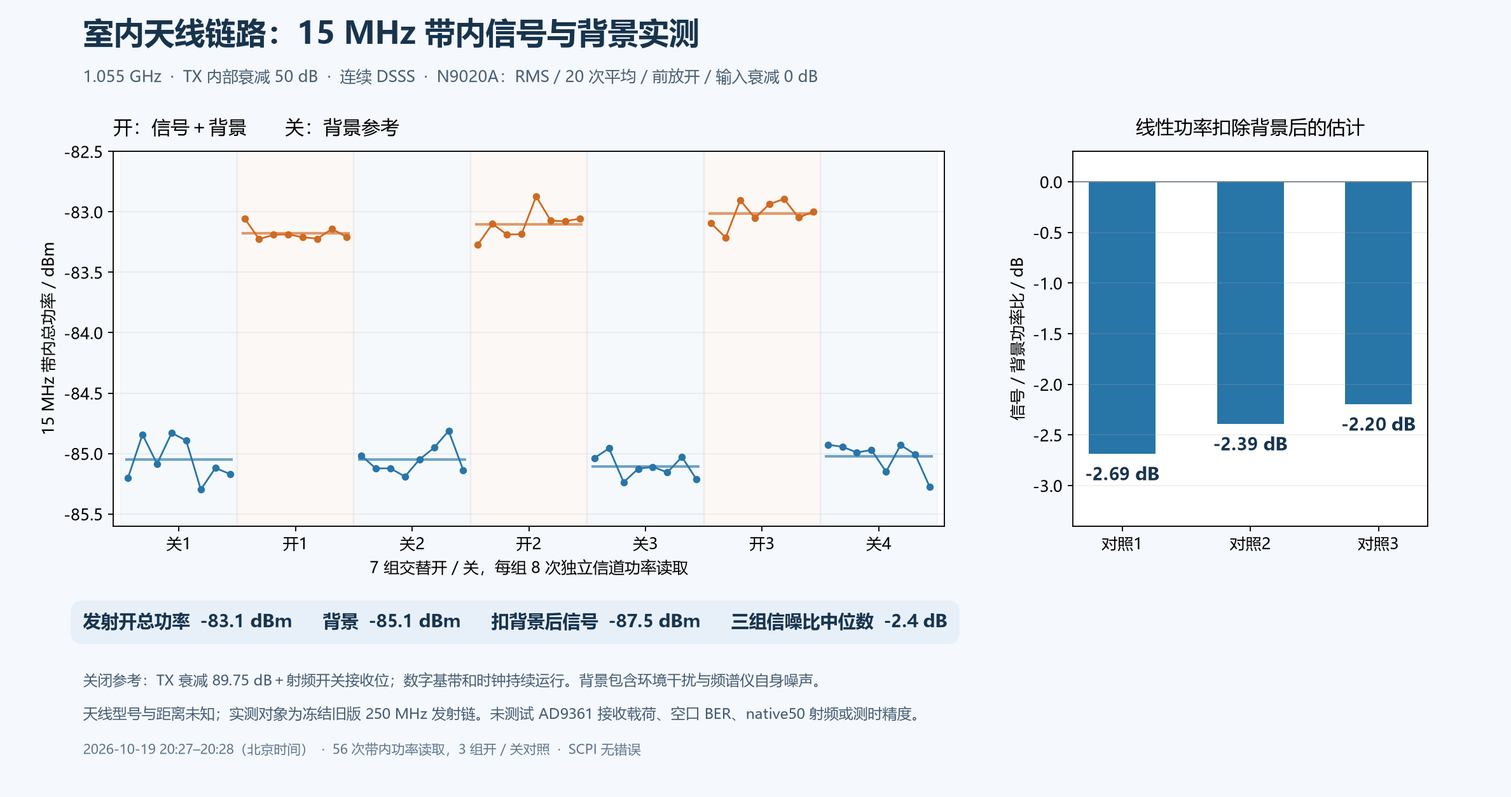
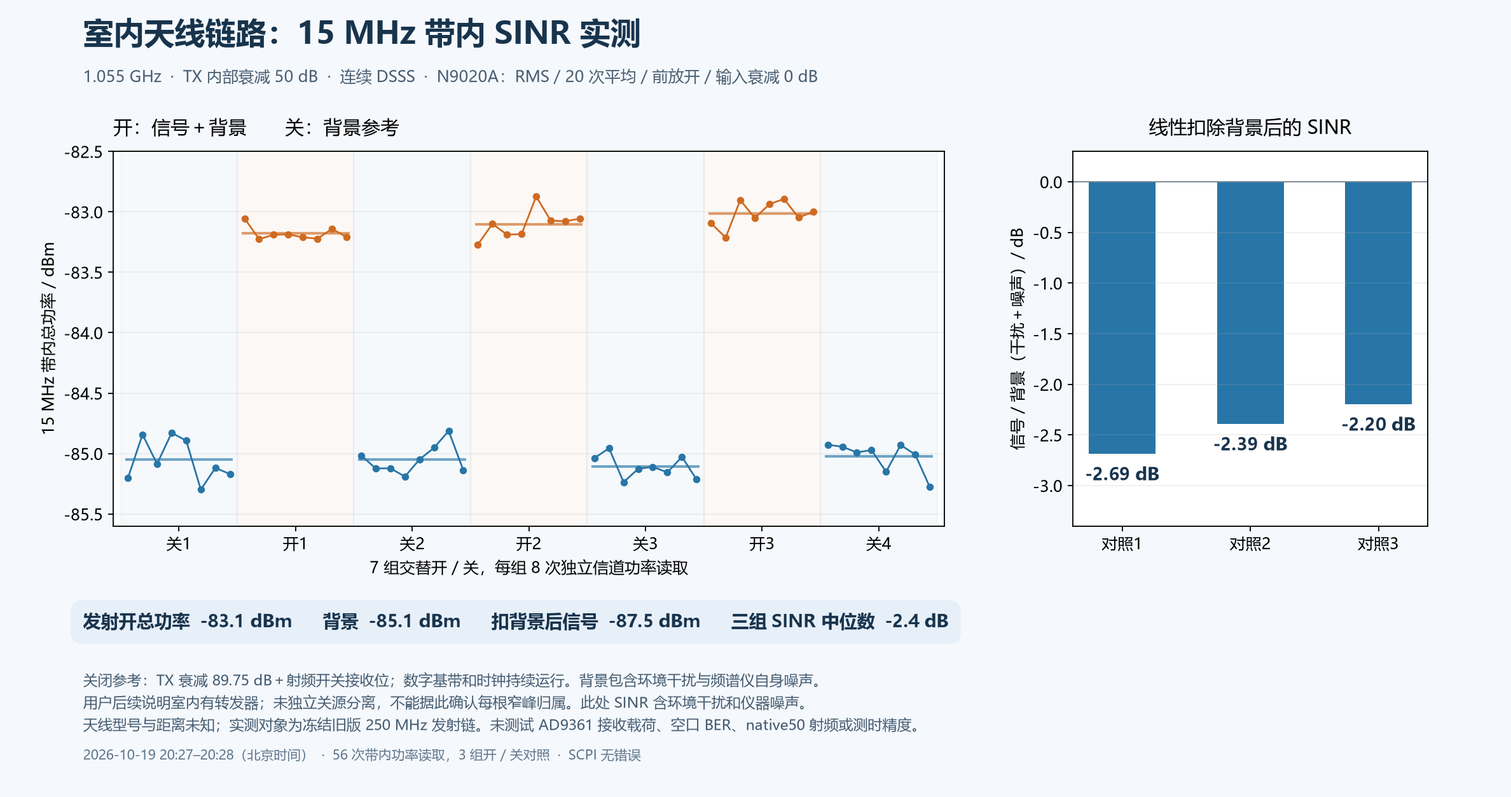
Update DSSS simulation gallery 2026-10-19

diff --git a/catalog.html b/catalog.html
@@ -861,13 +861,17 @@ img{width:100%;height:240px;object-fit:contain;background:#f8fafc}h3{font-size:1
 <li><a href="modules.html#script_native50_selftest">原生50 MHz：双板内部模块自检</a>：登记的新图对应模块；场景及信号说明见图注</li>
 </ul><details class="panel-note"><summary>这张图从哪里取数 / 如何阅读</summary><p>已按登记信息关联模块；具体场景及信号说明：2026-10-19实际JTAG读回，A/B两块FMQL45T900各10次逻辑启动，共20轮；不是10次断电重启。Ru_10MHz经MMCM生成50MHz，AD9361保持复位、射频关闭。实际位流568a3b721786af57开头，两板各次记录与本次nonce、原始日志SHA256绑定；完整原始日志留本地。每轮100B递增载荷经过真实phy_tx_top，组148B帧、同一PN1000扩频、12.5Mcps、4倍41tap RRC，输出4736040个有效I16样点（含40个尾样点），Q恒零，I16小端全帧CRC32均F5EECF75；独立整数卷积生成参考，不用DUT自身输出作为golden。RX以800个已解调测试bit驱动rx_phy_par到phy_adc_bridge，检查132B包；OBS检查256B固定地址模式的32拍AXIS记录，两条通路均加入背压并检查保持。板上TX/RX/OBS错误计数均0；DONE/INIT/CRC状态为1/1/0。OBS固定模式仅验证控制/握手，不是RAM全位覆盖或外部DDR测试。首轮50MHz建立时序-3.232ns，真实tx_intp4改为7级流水后建立+7.305ns、保持+0.046ns；相对旧实现增加6拍120ns固定计算延迟，系数、样点和CRC不变，不能当成传播延迟或同步精度。附属RTL仿真另外验证三帧逐点golden、故意破坏TX样点后拒绝、恢复启动、正负饱和和半LSB舍入。未验证DATA_CLK源同步/LVDS、ADC/DAC和RF、完整FFT/DLL/Costas接收、PS/DMA/物理DDR、空口TDD、PPS或1ns/ps精度。此为脚本生成的实测结果图，无新增Simulink块；源代码、私有IP、位流和用户载荷不公开。旧S2双向和连续收发记录为历史基线，不能与当前native50台架混用。</p>
 </details></article>
-<article data-era="current" data-modules="script_continuous_tx"><span class="badge">E3天线实测：分析仪端信号/背景约−2.4dB；未验收接收载荷</span><h3>69_室内无源天线_15MHz带内信噪比实测.png</h3><a href="08_MATLAB_Simulink_RTL%E5%AF%B9%E7%85%A7/69_%E5%AE%A4%E5%86%85%E6%97%A0%E6%BA%90%E5%A4%A9%E7%BA%BF_15MHz%E5%B8%A6%E5%86%85%E4%BF%A1%E5%99%AA%E6%AF%94%E5%AE%9E%E6%B5%8B.png" target="_blank"><img loading="lazy" src="08_MATLAB_Simulink_RTL%E5%AF%B9%E7%85%A7/69_%E5%AE%A4%E5%86%85%E6%97%A0%E6%BA%90%E5%A4%A9%E7%BA%BF_15MHz%E5%B8%A6%E5%86%85%E4%BF%A1%E5%99%AA%E6%AF%94%E5%AE%9E%E6%B5%8B.png" alt="69_室内无源天线_15MHz带内信噪比实测.png"></a><p>2026-10-19约20:28实测，A板此前是native50射频关闭的内部自检；本次仅A恢复冻结20261016旧连续DSSS发送镜像并重新初始化与校准，B保持native50内部自检。1.055GHz、50MSPS、12.5Mcps、12.5kbps、PN1000、TX内部衰减50dB，无源天线室内连接N9020A，天线型号/频段/增益与距离未知。仪器15MHz积分、RMS检波/20次平均、输入衰减0dB、前放开启。保持数字基带和时钟连续，关参考采用TX89.75dB与射频开关接收位，开时恢复50dB和发射位；七组交替开关，每组八次，共56次真实CHPower读取，SCPI错误均0。三个开组总功率−83.179/−83.101/−83.016dBm，邻近关组线性平均背景约−85.050/−85.078/−85.065dBm；先在线性功率扣背景，再算信号/背景−2.688/−2.393/−2.197dB，中位−2.393dB。汇总开总功率约−83.1dBm、背景−85.1dBm、扣背景后信号约−87.5dBm。背景含环境干扰和分析仪自身噪声，不能等同AD9361接收端SNR；这是15MHz解扩前比值，不是单个RBW谱峰或解扩后判决信噪比。保持关闭数字源会改变FPGA辐射，因此没有用停时钟作为关参考。CHP模式下额外SAN TRAC1读数均为−1000无效哨兵，原样保留但完全排除，图中只有有效CHPower数值。仅证明本次低功率天线RF信号可由开关区分，不证明接收载荷、BER、无线距离、native50完整RF链、PPS或ps精度。位流、RTL/IP和原始日志仅本地。</p><p><strong>对应模块 / 图源：</strong></p><ul class="module-links">
+<article data-era="current" data-modules="script_continuous_tx"><span class="badge">E3天线实测：分析仪端SINR约−2.4dB（信号/干扰与噪声）；未验收接收载荷</span><h3>69_室内无源天线_15MHz带内信噪比实测.png</h3><a href="08_MATLAB_Simulink_RTL%E5%AF%B9%E7%85%A7/69_%E5%AE%A4%E5%86%85%E6%97%A0%E6%BA%90%E5%A4%A9%E7%BA%BF_15MHz%E5%B8%A6%E5%86%85%E4%BF%A1%E5%99%AA%E6%AF%94%E5%AE%9E%E6%B5%8B.png" target="_blank"><img loading="lazy" src="08_MATLAB_Simulink_RTL%E5%AF%B9%E7%85%A7/69_%E5%AE%A4%E5%86%85%E6%97%A0%E6%BA%90%E5%A4%A9%E7%BA%BF_15MHz%E5%B8%A6%E5%86%85%E4%BF%A1%E5%99%AA%E6%AF%94%E5%AE%9E%E6%B5%8B.png" alt="69_室内无源天线_15MHz带内信噪比实测.png"></a><p>2026-10-19约20:28实测，A板此前是native50射频关闭的内部自检；本次仅A恢复冻结20261016旧连续DSSS发送镜像并重新初始化与校准，B保持native50内部自检。1.055GHz、50MSPS、12.5Mcps、12.5kbps、PN1000、TX内部衰减50dB，无源天线室内连接N9020A，天线型号/频段/增益与距离未知。仪器15MHz积分、RMS检波/20次平均、输入衰减0dB、前放开启。保持数字基带和时钟连续，关参考采用TX89.75dB与射频开关接收位，开时恢复50dB和发射位；七组交替开关，每组八次，共56次真实CHPower读取，SCPI错误均0。三个开组总功率−83.179/−83.101/−83.016dBm，邻近关组线性平均背景约−85.050/−85.078/−85.065dBm；先在线性功率扣背景，再算信号/背景−2.688/−2.393/−2.197dB，中位−2.393dB。汇总开总功率约−83.1dBm、背景−85.1dBm、扣背景后信号约−87.5dBm。背景含环境干扰和分析仪自身噪声，不能等同AD9361接收端SNR；这是15MHz解扩前比值，不是单个RBW谱峰或解扩后判决信噪比。保持关闭数字源会改变FPGA辐射，因此没有用停时钟作为关参考。CHP模式下额外SAN TRAC1读数均为−1000无效哨兵，原样保留但完全排除，图中只有有效CHPower数值。仅证明本次低功率天线RF信号可由开关区分，不证明接收载荷、BER、无线距离、native50完整RF链、PPS或ps精度。位流、RTL/IP和原始日志仅本地。 用户后续现场说明室内存在转发器，因此本图文字口径修正为SINR或信号/背景（干扰加噪声）；原始56次读取、三个比值、公开文件名和URL均保持不变。未关闭转发器独立分离，没有证实每根窄峰均由转发器产生。</p><p><strong>对应模块 / 图源：</strong></p><ul class="module-links">
 <li><a href="modules.html#script_continuous_tx">实板连续发射机：FPGA帧源到AD9361射频</a>：登记的新图对应模块；场景及信号说明见图注</li>
-</ul><details class="panel-note"><summary>这张图从哪里取数 / 如何阅读</summary><p>已按登记信息关联模块；具体场景及信号说明：2026-10-19约20:28实测，A板此前是native50射频关闭的内部自检；本次仅A恢复冻结20261016旧连续DSSS发送镜像并重新初始化与校准，B保持native50内部自检。1.055GHz、50MSPS、12.5Mcps、12.5kbps、PN1000、TX内部衰减50dB，无源天线室内连接N9020A，天线型号/频段/增益与距离未知。仪器15MHz积分、RMS检波/20次平均、输入衰减0dB、前放开启。保持数字基带和时钟连续，关参考采用TX89.75dB与射频开关接收位，开时恢复50dB和发射位；七组交替开关，每组八次，共56次真实CHPower读取，SCPI错误均0。三个开组总功率−83.179/−83.101/−83.016dBm，邻近关组线性平均背景约−85.050/−85.078/−85.065dBm；先在线性功率扣背景，再算信号/背景−2.688/−2.393/−2.197dB，中位−2.393dB。汇总开总功率约−83.1dBm、背景−85.1dBm、扣背景后信号约−87.5dBm。背景含环境干扰和分析仪自身噪声，不能等同AD9361接收端SNR；这是15MHz解扩前比值，不是单个RBW谱峰或解扩后判决信噪比。保持关闭数字源会改变FPGA辐射，因此没有用停时钟作为关参考。CHP模式下额外SAN TRAC1读数均为−1000无效哨兵，原样保留但完全排除，图中只有有效CHPower数值。仅证明本次低功率天线RF信号可由开关区分，不证明接收载荷、BER、无线距离、native50完整RF链、PPS或ps精度。位流、RTL/IP和原始日志仅本地。</p>
+</ul><details class="panel-note"><summary>这张图从哪里取数 / 如何阅读</summary><p>已按登记信息关联模块；具体场景及信号说明：2026-10-19约20:28实测，A板此前是native50射频关闭的内部自检；本次仅A恢复冻结20261016旧连续DSSS发送镜像并重新初始化与校准，B保持native50内部自检。1.055GHz、50MSPS、12.5Mcps、12.5kbps、PN1000、TX内部衰减50dB，无源天线室内连接N9020A，天线型号/频段/增益与距离未知。仪器15MHz积分、RMS检波/20次平均、输入衰减0dB、前放开启。保持数字基带和时钟连续，关参考采用TX89.75dB与射频开关接收位，开时恢复50dB和发射位；七组交替开关，每组八次，共56次真实CHPower读取，SCPI错误均0。三个开组总功率−83.179/−83.101/−83.016dBm，邻近关组线性平均背景约−85.050/−85.078/−85.065dBm；先在线性功率扣背景，再算信号/背景−2.688/−2.393/−2.197dB，中位−2.393dB。汇总开总功率约−83.1dBm、背景−85.1dBm、扣背景后信号约−87.5dBm。背景含环境干扰和分析仪自身噪声，不能等同AD9361接收端SNR；这是15MHz解扩前比值，不是单个RBW谱峰或解扩后判决信噪比。保持关闭数字源会改变FPGA辐射，因此没有用停时钟作为关参考。CHP模式下额外SAN TRAC1读数均为−1000无效哨兵，原样保留但完全排除，图中只有有效CHPower数值。仅证明本次低功率天线RF信号可由开关区分，不证明接收载荷、BER、无线距离、native50完整RF链、PPS或ps精度。位流、RTL/IP和原始日志仅本地。 用户后续现场说明室内存在转发器，因此本图文字口径修正为SINR或信号/背景（干扰加噪声）；原始56次读取、三个比值、公开文件名和URL均保持不变。未关闭转发器独立分离，没有证实每根窄峰均由转发器产生。</p>
 </details></article>
 <article data-era="current" data-modules="script_continuous_tx"><span class="badge">E3频谱实测：1042.28MHz强峰不随RF控制变化；具体来源未确定</span><h3>70_室内天线频谱_尖峰来源与射频开关衰减对照.png</h3><a href="08_MATLAB_Simulink_RTL%E5%AF%B9%E7%85%A7/70_%E5%AE%A4%E5%86%85%E5%A4%A9%E7%BA%BF%E9%A2%91%E8%B0%B1_%E5%B0%96%E5%B3%B0%E6%9D%A5%E6%BA%90%E4%B8%8E%E5%B0%84%E9%A2%91%E5%BC%80%E5%85%B3%E8%A1%B0%E5%87%8F%E5%AF%B9%E7%85%A7.png" target="_blank"><img loading="lazy" src="08_MATLAB_Simulink_RTL%E5%AF%B9%E7%85%A7/70_%E5%AE%A4%E5%86%85%E5%A4%A9%E7%BA%BF%E9%A2%91%E8%B0%B1_%E5%B0%96%E5%B3%B0%E6%9D%A5%E6%BA%90%E4%B8%8E%E5%B0%84%E9%A2%91%E5%BC%80%E5%85%B3%E8%A1%B0%E5%87%8F%E5%AF%B9%E7%85%A7.png" alt="70_室内天线频谱_尖峰来源与射频开关衰减对照.png"></a><p>2026-10-19约21:01–21:02，延续图69同一旧连续发送镜像，A为1.055GHz/50MSPS/12.5Mcps/PN1000，B仍为native50射频关闭的内部自检。室内无源天线，型号/频段/增益/距离未知。N9020A中心1055MHz、跨度40MHz、RBW/VBW100kHz、RMS检波、前放开、输入衰减0dB。依次TX50dB、TX60dB、TX89.75dB加射频开关接收位、再TX50dB；保持同一数字波形、时钟和PLL运行，不重新下载/复位/改LO。每状态20次独立扫描共80次，在每个频点线性功率平均，两个50dB状态再线性平均作为正常曲线。表格取峰附近正负2个40kHz频点最大值，非精密频率计测量。1042.28MHz正常约-72.36dBm，静音-72.22dBm，增衰减10dB后-71.96dBm，未见随TX输出下降；不能称为期望DSSS信号，也不能仅凭静音仍在断言外部台。1039.48MHz变化非单调；1050MHz基本不变；1060MHz正常与静音差约1.9dB而增衰减10dB只变化约1.1dB，混合背景未分离；1070MHz前后波动约1.2dB。1050/1060/1070的10MHz等间隔仅提示时钟或杂散嫌疑，不证明10MHz参考泄漏或AD9361 PLL根因；相对载频偏移为-5/+5/+15MHz。静音保留数字时钟，环境干扰、板级直接耦合、仪器自杂散均尚未区分。横轴为射频频率，不是PN码相位相关峰，不支持历史80ns归因；峰值为每RBW功率，不替代图69的15MHz积分信噪比。仪器与SPI无错误，发送帧持续且削顶/故障0；结束恢复50dB连续发送并设置M1–M5标记。没有接收载荷/BER/距离/PPS/ps精度验收。本图为脚本实测输出，无新增Simulink块；源码/IP/位流与原始曲线本地留存。</p><p><strong>对应模块 / 图源：</strong></p><ul class="module-links">
 <li><a href="modules.html#script_continuous_tx">实板连续发射机：FPGA帧源到AD9361射频</a>：登记的新图对应模块；场景及信号说明见图注</li>
 </ul><details class="panel-note"><summary>这张图从哪里取数 / 如何阅读</summary><p>已按登记信息关联模块；具体场景及信号说明：2026-10-19约21:01–21:02，延续图69同一旧连续发送镜像，A为1.055GHz/50MSPS/12.5Mcps/PN1000，B仍为native50射频关闭的内部自检。室内无源天线，型号/频段/增益/距离未知。N9020A中心1055MHz、跨度40MHz、RBW/VBW100kHz、RMS检波、前放开、输入衰减0dB。依次TX50dB、TX60dB、TX89.75dB加射频开关接收位、再TX50dB；保持同一数字波形、时钟和PLL运行，不重新下载/复位/改LO。每状态20次独立扫描共80次，在每个频点线性功率平均，两个50dB状态再线性平均作为正常曲线。表格取峰附近正负2个40kHz频点最大值，非精密频率计测量。1042.28MHz正常约-72.36dBm，静音-72.22dBm，增衰减10dB后-71.96dBm，未见随TX输出下降；不能称为期望DSSS信号，也不能仅凭静音仍在断言外部台。1039.48MHz变化非单调；1050MHz基本不变；1060MHz正常与静音差约1.9dB而增衰减10dB只变化约1.1dB，混合背景未分离；1070MHz前后波动约1.2dB。1050/1060/1070的10MHz等间隔仅提示时钟或杂散嫌疑，不证明10MHz参考泄漏或AD9361 PLL根因；相对载频偏移为-5/+5/+15MHz。静音保留数字时钟，环境干扰、板级直接耦合、仪器自杂散均尚未区分。横轴为射频频率，不是PN码相位相关峰，不支持历史80ns归因；峰值为每RBW功率，不替代图69的15MHz积分信噪比。仪器与SPI无错误，发送帧持续且削顶/故障0；结束恢复50dB连续发送并设置M1–M5标记。没有接收载荷/BER/距离/PPS/ps精度验收。本图为脚本实测输出，无新增Simulink块；源码/IP/位流与原始曲线本地留存。</p>
+</details></article>
+<article data-era="current" data-modules="script_continuous_tx"><span class="badge">E3天线实测：50/45/40dB片内衰减对照；3/3组可靠检出；无载荷验收</span><h3>71_室内天线发射功率提高_50至40dB衰减对照.png</h3><a href="08_MATLAB_Simulink_RTL%E5%AF%B9%E7%85%A7/71_%E5%AE%A4%E5%86%85%E5%A4%A9%E7%BA%BF%E5%8F%91%E5%B0%84%E5%8A%9F%E7%8E%87%E6%8F%90%E9%AB%98_50%E8%87%B340dB%E8%A1%B0%E5%87%8F%E5%AF%B9%E7%85%A7.png" target="_blank"><img loading="lazy" src="08_MATLAB_Simulink_RTL%E5%AF%B9%E7%85%A7/71_%E5%AE%A4%E5%86%85%E5%A4%A9%E7%BA%BF%E5%8F%91%E5%B0%84%E5%8A%9F%E7%8E%87%E6%8F%90%E9%AB%98_50%E8%87%B340dB%E8%A1%B0%E5%87%8F%E5%AF%B9%E7%85%A7.png" alt="71_室内天线发射功率提高_50至40dB衰减对照.png"></a><p>2026-10-19室内无源天线接N9020A的真实RF测量。现场有转发器为用户说明，没有独立关源，故不按尖峰频率认定每个发射源。天线型号、频段、增益和距离未知。开始发现A板DONE=0，重新加载已验收冻结20261016旧连续TX镜像，重新初始化与LVDS校准后才测量；B本次未操作且当前状态未核查。A为1.055GHz、50MSPS、12.5Mchip/s、PN1000、连续DSSS；用户FIR旁路、模拟20MHz沿用旧配置。本次只把TX片内衰减50→45→40dB，设定相对提高0/5/10dB，衰减dB不是实际发射输出dBm。静音使用89.75dB衰减和RF开关接收位，保持数字波形与时钟运行。七组顺序为静音/50/静音/45/静音/40/静音，每组20次独立SAN扫描及8次15MHz CHPower读取，SAN为中心1055MHz/跨度40MHz/RBW100kHz/RMS检波，输入衰减0dB/前放开。左图每组频谱逐频点线性功率平均，静音曲线是四组静音线性平均，只作频谱展示；右图各开启组使用前后相邻两组静音线性平均独立扣背景，先S=Pon−Pbg，再SINR=10log10(S/Pbg)。背景包含环境干扰及分析仪噪声，不能等同AD9361接收端SNR。可靠门槛为开启相对背景上升&gt;max(0.7dB,3倍重复性标准误)，且前后背景变化绝对值&lt;1dB；未通过时保留总功率，不以0或理论值替代SINR；50dB基线未可靠检出时，相对实测提升不输出。TX片内衰减50dB：15MHz总功率-83.427dBm、相邻静音背景-85.105dBm、背景前后变化-0.132dB；线性扣背景信号-88.369dBm、SINR-3.263dB、相对TX50实测信号变化0.000dB；TX片内衰减45dB：15MHz总功率-81.636dBm、相邻静音背景-85.098dBm、背景前后变化0.147dB；线性扣背景信号-84.238dBm、SINR0.860dB、相对TX50实测信号变化4.131dB；TX片内衰减40dB：15MHz总功率-77.742dBm、相邻静音背景-84.967dBm、背景前后变化0.114dB；线性扣背景信号-78.654dBm、SINR6.314dB、相对TX50实测信号变化9.715dB。结束A保持40dB片内衰减连续发射，未改载频或停止基带。仅分析仪端频谱/功率控制与信号对背景比值，无接收载荷、BER、无线距离、TDD、PPS或ps精度验收。本图为脚本实测结果，无新增Simulink块；源码/IP、位流、原始记录与CSV仅留本地。</p><p><strong>对应模块 / 图源：</strong></p><ul class="module-links">
+<li><a href="modules.html#script_continuous_tx">实板连续发射机：FPGA帧源到AD9361射频</a>：登记的新图对应模块；场景及信号说明见图注</li>
+</ul><details class="panel-note"><summary>这张图从哪里取数 / 如何阅读</summary><p>已按登记信息关联模块；具体场景及信号说明：2026-10-19室内无源天线接N9020A的真实RF测量。现场有转发器为用户说明，没有独立关源，故不按尖峰频率认定每个发射源。天线型号、频段、增益和距离未知。开始发现A板DONE=0，重新加载已验收冻结20261016旧连续TX镜像，重新初始化与LVDS校准后才测量；B本次未操作且当前状态未核查。A为1.055GHz、50MSPS、12.5Mchip/s、PN1000、连续DSSS；用户FIR旁路、模拟20MHz沿用旧配置。本次只把TX片内衰减50→45→40dB，设定相对提高0/5/10dB，衰减dB不是实际发射输出dBm。静音使用89.75dB衰减和RF开关接收位，保持数字波形与时钟运行。七组顺序为静音/50/静音/45/静音/40/静音，每组20次独立SAN扫描及8次15MHz CHPower读取，SAN为中心1055MHz/跨度40MHz/RBW100kHz/RMS检波，输入衰减0dB/前放开。左图每组频谱逐频点线性功率平均，静音曲线是四组静音线性平均，只作频谱展示；右图各开启组使用前后相邻两组静音线性平均独立扣背景，先S=Pon−Pbg，再SINR=10log10(S/Pbg)。背景包含环境干扰及分析仪噪声，不能等同AD9361接收端SNR。可靠门槛为开启相对背景上升&gt;max(0.7dB,3倍重复性标准误)，且前后背景变化绝对值&lt;1dB；未通过时保留总功率，不以0或理论值替代SINR；50dB基线未可靠检出时，相对实测提升不输出。TX片内衰减50dB：15MHz总功率-83.427dBm、相邻静音背景-85.105dBm、背景前后变化-0.132dB；线性扣背景信号-88.369dBm、SINR-3.263dB、相对TX50实测信号变化0.000dB；TX片内衰减45dB：15MHz总功率-81.636dBm、相邻静音背景-85.098dBm、背景前后变化0.147dB；线性扣背景信号-84.238dBm、SINR0.860dB、相对TX50实测信号变化4.131dB；TX片内衰减40dB：15MHz总功率-77.742dBm、相邻静音背景-84.967dBm、背景前后变化0.114dB；线性扣背景信号-78.654dBm、SINR6.314dB、相对TX50实测信号变化9.715dB。结束A保持40dB片内衰减连续发射，未改载频或停止基带。仅分析仪端频谱/功率控制与信号对背景比值，无接收载荷、BER、无线距离、TDD、PPS或ps精度验收。本图为脚本实测结果，无新增Simulink块；源码/IP、位流、原始记录与CSV仅留本地。</p>
 </details></article>
 </div></section>
 <section data-category="9" id="c9"><h2>09_无线性能与鲁棒性</h2><p class="note">当前MATLAB可视化参数探索：自定义FIR、Costas、码率与信道；与历史旧方案场景分开。功能探索不等于真实RTL或70km无线性能验收。</p><div class="grid">

diff --git a/modules.html b/modules.html
@@ -550,6 +550,7 @@ hilite_system(&#x27;dsss_wireless_link/Costas_I_Q&#x27;,&#x27;find&#x27;);</pre>
 <li><a href="08_MATLAB_Simulink_RTL%E5%AF%B9%E7%85%A7/62_100ms%E5%88%86%E6%97%B6_%E6%8D%95%E8%8E%B7%E9%9B%B6%E4%BD%8D%E7%BD%AE%E5%AF%B9%E9%BD%90%E4%B8%8E%E9%9B%B6%E5%B3%B0%E5%88%A4%E5%86%B3.png">62_100ms分时_捕获零位置对齐与零峰判决.png</a> — 登记的新图对应模块；场景及信号说明见图注</li>
 <li><a href="08_MATLAB_Simulink_RTL%E5%AF%B9%E7%85%A7/69_%E5%AE%A4%E5%86%85%E6%97%A0%E6%BA%90%E5%A4%A9%E7%BA%BF_15MHz%E5%B8%A6%E5%86%85%E4%BF%A1%E5%99%AA%E6%AF%94%E5%AE%9E%E6%B5%8B.png">69_室内无源天线_15MHz带内信噪比实测.png</a> — 登记的新图对应模块；场景及信号说明见图注</li>
 <li><a href="08_MATLAB_Simulink_RTL%E5%AF%B9%E7%85%A7/70_%E5%AE%A4%E5%86%85%E5%A4%A9%E7%BA%BF%E9%A2%91%E8%B0%B1_%E5%B0%96%E5%B3%B0%E6%9D%A5%E6%BA%90%E4%B8%8E%E5%B0%84%E9%A2%91%E5%BC%80%E5%85%B3%E8%A1%B0%E5%87%8F%E5%AF%B9%E7%85%A7.png">70_室内天线频谱_尖峰来源与射频开关衰减对照.png</a> — 登记的新图对应模块；场景及信号说明见图注</li>
+<li><a href="08_MATLAB_Simulink_RTL%E5%AF%B9%E7%85%A7/71_%E5%AE%A4%E5%86%85%E5%A4%A9%E7%BA%BF%E5%8F%91%E5%B0%84%E5%8A%9F%E7%8E%87%E6%8F%90%E9%AB%98_50%E8%87%B340dB%E8%A1%B0%E5%87%8F%E5%AF%B9%E7%85%A7.png">71_室内天线发射功率提高_50至40dB衰减对照.png</a> — 登记的新图对应模块；场景及信号说明见图注</li>
 </ul><details><summary>实现位置与本地定位命令</summary><p class="note">fpga_ad9361/rtl/board/DSSS_BPSK_TXRX_continuous_tx_top.v；fpga_ad9361/rtl/dsss_continuous_tx.v；fpga_ad9361/rtl/dsss_tx_250.v；fpga_ad9361/rtl/iq_clock_bridge.v；fpga_ad9361/tools/instruments/continuous_tx_acceptance.py；fpga_ad9361/tools/instruments/control_continuous_tx.py；fpga_ad9361/sim/run_continuous_frame.py；fpga_ad9361/sim/run_continuous_tx.py；fpga_ad9361/tools/plot_continuous_tx.py</p>
 </details></article>
 <article id="script_continuous_rx"><h3>实板连续接收机：双板同轴载荷验证</h3>
@@ -1426,8 +1427,10 @@ hilite_system(&#x27;dsss_ad9361_official/Scope_TX_IQ&#x27;,&#x27;find&#x27;);</p
 </details>
 <details><summary>68_原生50MHz新PL模块_双板内部自检.png</summary><p>已按登记信息关联模块；具体场景及信号说明：2026-10-19实际JTAG读回，A/B两块FMQL45T900各10次逻辑启动，共20轮；不是10次断电重启。Ru_10MHz经MMCM生成50MHz，AD9361保持复位、射频关闭。实际位流568a3b721786af57开头，两板各次记录与本次nonce、原始日志SHA256绑定；完整原始日志留本地。每轮100B递增载荷经过真实phy_tx_top，组148B帧、同一PN1000扩频、12.5Mcps、4倍41tap RRC，输出4736040个有效I16样点（含40个尾样点），Q恒零，I16小端全帧CRC32均F5EECF75；独立整数卷积生成参考，不用DUT自身输出作为golden。RX以800个已解调测试bit驱动rx_phy_par到phy_adc_bridge，检查132B包；OBS检查256B固定地址模式的32拍AXIS记录，两条通路均加入背压并检查保持。板上TX/RX/OBS错误计数均0；DONE/INIT/CRC状态为1/1/0。OBS固定模式仅验证控制/握手，不是RAM全位覆盖或外部DDR测试。首轮50MHz建立时序-3.232ns，真实tx_intp4改为7级流水后建立+7.305ns、保持+0.046ns；相对旧实现增加6拍120ns固定计算延迟，系数、样点和CRC不变，不能当成传播延迟或同步精度。附属RTL仿真另外验证三帧逐点golden、故意破坏TX样点后拒绝、恢复启动、正负饱和和半LSB舍入。未验证DATA_CLK源同步/LVDS、ADC/DAC和RF、完整FFT/DLL/Costas接收、PS/DMA/物理DDR、空口TDD、PPS或1ns/ps精度。此为脚本生成的实测结果图，无新增Simulink块；源代码、私有IP、位流和用户载荷不公开。旧S2双向和连续收发记录为历史基线，不能与当前native50台架混用。</p>
 </details>
-<details><summary>69_室内无源天线_15MHz带内信噪比实测.png</summary><p>已按登记信息关联模块；具体场景及信号说明：2026-10-19约20:28实测，A板此前是native50射频关闭的内部自检；本次仅A恢复冻结20261016旧连续DSSS发送镜像并重新初始化与校准，B保持native50内部自检。1.055GHz、50MSPS、12.5Mcps、12.5kbps、PN1000、TX内部衰减50dB，无源天线室内连接N9020A，天线型号/频段/增益与距离未知。仪器15MHz积分、RMS检波/20次平均、输入衰减0dB、前放开启。保持数字基带和时钟连续，关参考采用TX89.75dB与射频开关接收位，开时恢复50dB和发射位；七组交替开关，每组八次，共56次真实CHPower读取，SCPI错误均0。三个开组总功率−83.179/−83.101/−83.016dBm，邻近关组线性平均背景约−85.050/−85.078/−85.065dBm；先在线性功率扣背景，再算信号/背景−2.688/−2.393/−2.197dB，中位−2.393dB。汇总开总功率约−83.1dBm、背景−85.1dBm、扣背景后信号约−87.5dBm。背景含环境干扰和分析仪自身噪声，不能等同AD9361接收端SNR；这是15MHz解扩前比值，不是单个RBW谱峰或解扩后判决信噪比。保持关闭数字源会改变FPGA辐射，因此没有用停时钟作为关参考。CHP模式下额外SAN TRAC1读数均为−1000无效哨兵，原样保留但完全排除，图中只有有效CHPower数值。仅证明本次低功率天线RF信号可由开关区分，不证明接收载荷、BER、无线距离、native50完整RF链、PPS或ps精度。位流、RTL/IP和原始日志仅本地。</p>
+<details><summary>69_室内无源天线_15MHz带内信噪比实测.png</summary><p>已按登记信息关联模块；具体场景及信号说明：2026-10-19约20:28实测，A板此前是native50射频关闭的内部自检；本次仅A恢复冻结20261016旧连续DSSS发送镜像并重新初始化与校准，B保持native50内部自检。1.055GHz、50MSPS、12.5Mcps、12.5kbps、PN1000、TX内部衰减50dB，无源天线室内连接N9020A，天线型号/频段/增益与距离未知。仪器15MHz积分、RMS检波/20次平均、输入衰减0dB、前放开启。保持数字基带和时钟连续，关参考采用TX89.75dB与射频开关接收位，开时恢复50dB和发射位；七组交替开关，每组八次，共56次真实CHPower读取，SCPI错误均0。三个开组总功率−83.179/−83.101/−83.016dBm，邻近关组线性平均背景约−85.050/−85.078/−85.065dBm；先在线性功率扣背景，再算信号/背景−2.688/−2.393/−2.197dB，中位−2.393dB。汇总开总功率约−83.1dBm、背景−85.1dBm、扣背景后信号约−87.5dBm。背景含环境干扰和分析仪自身噪声，不能等同AD9361接收端SNR；这是15MHz解扩前比值，不是单个RBW谱峰或解扩后判决信噪比。保持关闭数字源会改变FPGA辐射，因此没有用停时钟作为关参考。CHP模式下额外SAN TRAC1读数均为−1000无效哨兵，原样保留但完全排除，图中只有有效CHPower数值。仅证明本次低功率天线RF信号可由开关区分，不证明接收载荷、BER、无线距离、native50完整RF链、PPS或ps精度。位流、RTL/IP和原始日志仅本地。 用户后续现场说明室内存在转发器，因此本图文字口径修正为SINR或信号/背景（干扰加噪声）；原始56次读取、三个比值、公开文件名和URL均保持不变。未关闭转发器独立分离，没有证实每根窄峰均由转发器产生。</p>
 </details>
 <details><summary>70_室内天线频谱_尖峰来源与射频开关衰减对照.png</summary><p>已按登记信息关联模块；具体场景及信号说明：2026-10-19约21:01–21:02，延续图69同一旧连续发送镜像，A为1.055GHz/50MSPS/12.5Mcps/PN1000，B仍为native50射频关闭的内部自检。室内无源天线，型号/频段/增益/距离未知。N9020A中心1055MHz、跨度40MHz、RBW/VBW100kHz、RMS检波、前放开、输入衰减0dB。依次TX50dB、TX60dB、TX89.75dB加射频开关接收位、再TX50dB；保持同一数字波形、时钟和PLL运行，不重新下载/复位/改LO。每状态20次独立扫描共80次，在每个频点线性功率平均，两个50dB状态再线性平均作为正常曲线。表格取峰附近正负2个40kHz频点最大值，非精密频率计测量。1042.28MHz正常约-72.36dBm，静音-72.22dBm，增衰减10dB后-71.96dBm，未见随TX输出下降；不能称为期望DSSS信号，也不能仅凭静音仍在断言外部台。1039.48MHz变化非单调；1050MHz基本不变；1060MHz正常与静音差约1.9dB而增衰减10dB只变化约1.1dB，混合背景未分离；1070MHz前后波动约1.2dB。1050/1060/1070的10MHz等间隔仅提示时钟或杂散嫌疑，不证明10MHz参考泄漏或AD9361 PLL根因；相对载频偏移为-5/+5/+15MHz。静音保留数字时钟，环境干扰、板级直接耦合、仪器自杂散均尚未区分。横轴为射频频率，不是PN码相位相关峰，不支持历史80ns归因；峰值为每RBW功率，不替代图69的15MHz积分信噪比。仪器与SPI无错误，发送帧持续且削顶/故障0；结束恢复50dB连续发送并设置M1–M5标记。没有接收载荷/BER/距离/PPS/ps精度验收。本图为脚本实测输出，无新增Simulink块；源码/IP/位流与原始曲线本地留存。</p>
+</details>
+<details><summary>71_室内天线发射功率提高_50至40dB衰减对照.png</summary><p>已按登记信息关联模块；具体场景及信号说明：2026-10-19室内无源天线接N9020A的真实RF测量。现场有转发器为用户说明，没有独立关源，故不按尖峰频率认定每个发射源。天线型号、频段、增益和距离未知。开始发现A板DONE=0，重新加载已验收冻结20261016旧连续TX镜像，重新初始化与LVDS校准后才测量；B本次未操作且当前状态未核查。A为1.055GHz、50MSPS、12.5Mchip/s、PN1000、连续DSSS；用户FIR旁路、模拟20MHz沿用旧配置。本次只把TX片内衰减50→45→40dB，设定相对提高0/5/10dB，衰减dB不是实际发射输出dBm。静音使用89.75dB衰减和RF开关接收位，保持数字波形与时钟运行。七组顺序为静音/50/静音/45/静音/40/静音，每组20次独立SAN扫描及8次15MHz CHPower读取，SAN为中心1055MHz/跨度40MHz/RBW100kHz/RMS检波，输入衰减0dB/前放开。左图每组频谱逐频点线性功率平均，静音曲线是四组静音线性平均，只作频谱展示；右图各开启组使用前后相邻两组静音线性平均独立扣背景，先S=Pon−Pbg，再SINR=10log10(S/Pbg)。背景包含环境干扰及分析仪噪声，不能等同AD9361接收端SNR。可靠门槛为开启相对背景上升&gt;max(0.7dB,3倍重复性标准误)，且前后背景变化绝对值&lt;1dB；未通过时保留总功率，不以0或理论值替代SINR；50dB基线未可靠检出时，相对实测提升不输出。TX片内衰减50dB：15MHz总功率-83.427dBm、相邻静音背景-85.105dBm、背景前后变化-0.132dB；线性扣背景信号-88.369dBm、SINR-3.263dB、相对TX50实测信号变化0.000dB；TX片内衰减45dB：15MHz总功率-81.636dBm、相邻静音背景-85.098dBm、背景前后变化0.147dB；线性扣背景信号-84.238dBm、SINR0.860dB、相对TX50实测信号变化4.131dB；TX片内衰减40dB：15MHz总功率-77.742dBm、相邻静音背景-84.967dBm、背景前后变化0.114dB；线性扣背景信号-78.654dBm、SINR6.314dB、相对TX50实测信号变化9.715dB。结束A保持40dB片内衰减连续发射，未改载频或停止基带。仅分析仪端频谱/功率控制与信号对背景比值，无接收载荷、BER、无线距离、TDD、PPS或ps精度验收。本图为脚本实测结果，无新增Simulink块；源码/IP、位流、原始记录与CSV仅留本地。</p>
 </details>
 <script>document.querySelectorAll('[data-diagram][data-zoom]').forEach(button=>button.addEventListener('click',()=>{const image=document.getElementById('image-'+button.dataset.diagram);image.style.width=(100*Number(button.dataset.zoom))+'%';}));</script></main></html>

diff --git a/00_图册索引.html b/00_图册索引.html
@@ -22,7 +22,7 @@
     </style></head><body>
 <header class="top"><div class="wrap"><a class="brand" href="00_图册索引.html">DSSS / ENGINEERING REVIEW</a><nav aria-label="主导航"><a aria-current="page" href="00_图册索引.html">评审首页</a><a href="field_environment.html">当前场景基线</a><a href="host_console.html">上位机与更新日志</a><a href="migration.html">工程主线</a><a href="modules.html">模型与模块</a><a href="node_lab.html">节点实验室</a><a href="precision_evidence.html">精度证据</a><a href="catalog.html">完整图册</a></nav></div></header>
 <div class="hero"><div class="wrap"><div class="hero-grid"><div><p class="eyebrow">LEGACY RTL → AD9361 · TRACEABLE ENGINEERING EVIDENCE</p><h1>接住原系统，解释关键误差，<br>从仿真走到双板载荷实测</h1><p class="lead">首页只回答技术评审最关心的三件事：原工程是否真正继承、80 ns与几百ps是否有可复跑证据、距离AD9361整机通信还剩哪些关卡。</p><div class="hero-actions"><a class="button primary" href="#verdict">先看评审结论 ↓</a><a class="button" href="#proofs">核对关键证据 →</a><a class="button" href="catalog.html">进入完整图册 →</a></div></div><div class="hero-note"><strong>当前总判断：新native50已双板内部自检；RF与PS-DDR待接入</strong>80 ns机制可控复现，亚码片精测算术链已有RTL证据；当前板上运行50MHz内部模块台架，AD9361保持复位、射频关闭；旧S2同轴通信与坏帧诊断保留为历史证据。新架构的LVDS、完整接收、PS-DDR、无线TDD与PPS仍待验收。</div></div>
-<div class="hero-foot"><span>评审版更新 2026-10-19</span><span>图册收录 146 个图文件</span><span>证据等级：功能模型 / RTL分段 / 当前板内自检 / 历史同轴 / 整机待验收</span></div></div></div>
+<div class="hero-foot"><span>评审版更新 2026-10-19</span><span>图册收录 147 个图文件</span><span>证据等级：功能模型 / RTL分段 / 当前板内自检 / 历史同轴 / 整机待验收</span></div></div></div>
 <main class="wrap">
 <section id="verdict"><div class="section-head"><div><h2>六个数字，先给出工程判断</h2><p>数字旁边直接写明证据类型，避免把功能仿真、RTL分段和硬件实测混为一谈。</p></div><a href="precision_evidence.html">查看时间精度数据来源 →</a></div><div class="verdict">
 <article class="metric ok"><small>发送段逐点对照 · RTL</small><strong>160,000</strong><p>DSP点对齐后误差 <b>0</b>；启动阶段存在19个有效零样本差异。</p></article>

diff --git a/index.html b/index.html
@@ -22,7 +22,7 @@
     </style></head><body>
 <header class="top"><div class="wrap"><a class="brand" href="00_图册索引.html">DSSS / ENGINEERING REVIEW</a><nav aria-label="主导航"><a aria-current="page" href="00_图册索引.html">评审首页</a><a href="field_environment.html">当前场景基线</a><a href="host_console.html">上位机与更新日志</a><a href="migration.html">工程主线</a><a href="modules.html">模型与模块</a><a href="node_lab.html">节点实验室</a><a href="precision_evidence.html">精度证据</a><a href="catalog.html">完整图册</a></nav></div></header>
 <div class="hero"><div class="wrap"><div class="hero-grid"><div><p class="eyebrow">LEGACY RTL → AD9361 · TRACEABLE ENGINEERING EVIDENCE</p><h1>接住原系统，解释关键误差，<br>从仿真走到双板载荷实测</h1><p class="lead">首页只回答技术评审最关心的三件事：原工程是否真正继承、80 ns与几百ps是否有可复跑证据、距离AD9361整机通信还剩哪些关卡。</p><div class="hero-actions"><a class="button primary" href="#verdict">先看评审结论 ↓</a><a class="button" href="#proofs">核对关键证据 →</a><a class="button" href="catalog.html">进入完整图册 →</a></div></div><div class="hero-note"><strong>当前总判断：新native50已双板内部自检；RF与PS-DDR待接入</strong>80 ns机制可控复现，亚码片精测算术链已有RTL证据；当前板上运行50MHz内部模块台架，AD9361保持复位、射频关闭；旧S2同轴通信与坏帧诊断保留为历史证据。新架构的LVDS、完整接收、PS-DDR、无线TDD与PPS仍待验收。</div></div>
-<div class="hero-foot"><span>评审版更新 2026-10-19</span><span>图册收录 146 个图文件</span><span>证据等级：功能模型 / RTL分段 / 当前板内自检 / 历史同轴 / 整机待验收</span></div></div></div>
+<div class="hero-foot"><span>评审版更新 2026-10-19</span><span>图册收录 147 个图文件</span><span>证据等级：功能模型 / RTL分段 / 当前板内自检 / 历史同轴 / 整机待验收</span></div></div></div>
 <main class="wrap">
 <section id="verdict"><div class="section-head"><div><h2>六个数字，先给出工程判断</h2><p>数字旁边直接写明证据类型，避免把功能仿真、RTL分段和硬件实测混为一谈。</p></div><a href="precision_evidence.html">查看时间精度数据来源 →</a></div><div class="verdict">
 <article class="metric ok"><small>发送段逐点对照 · RTL</small><strong>160,000</strong><p>DSP点对齐后误差 <b>0</b>；启动阶段存在19个有效零样本差异。</p></article>
